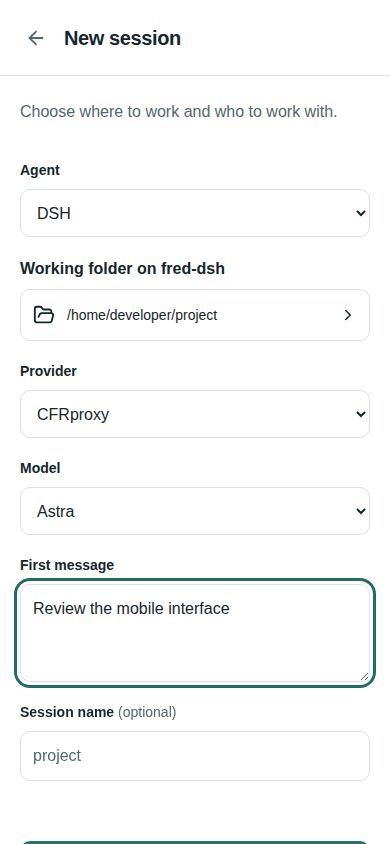
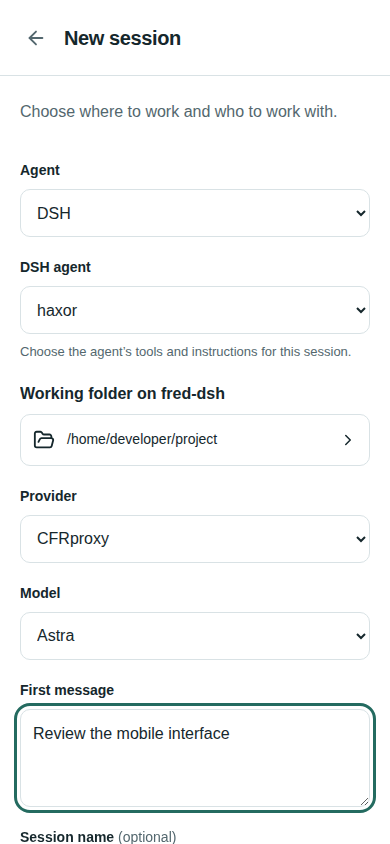
Select native DSH agent presets when launching sessions

diff --git a/apps/gateway/src/launch.ts b/apps/gateway/src/launch.ts
@@ -38,6 +38,7 @@ export const launchRequestSchema = z
     cwd: z.string().min(1).max(4096),
     name: z.string().trim().min(1).max(80),
     model: z.string().max(160).default(''),
+    agentPreset: z.string().min(1).max(160).optional(),
     prompt: z.string().trim().min(1).max(32000),
   })
   .strict();
@@ -105,12 +106,46 @@ export class Launcher {
         models: await this.models(p),
         allowCustomModel: p.allowCustomModel,
         defaultModel: p.defaultModel,
+        ...(p.harness === 'dsh' ? await this.presets(p) : {}),
         connected:
           this.dshHosts.get(p.hostId)?.connected ??
           this.clients.get(p.hostId)?.host.connected ??
           false,
       })),
     );
+  }
+  async presets(p: LaunchProfile) {
+    try {
+      const host = this.dshHosts.get(p.hostId);
+      if (!host?.connected) throw new Error('Disconnected');
+      const { presets } = z
+        .object({
+          presets: z.array(
+            z.object({
+              id: z.string(),
+              name: z.string().optional(),
+              description: z.string().optional(),
+              isDefault: z.boolean().optional(),
+              broken: z.string().optional(),
+            }),
+          ),
+        })
+        .parse(await host.native.call('agentPresets/list', {}));
+      return {
+        agentPresets: presets.map((p) => ({
+          id: p.id,
+          name: p.name || p.id,
+          description: p.description,
+          unavailable: !!p.broken,
+        })),
+        defaultAgentPreset: p.dshPreset ?? presets.find((p) => p.isDefault)?.id,
+      };
+    } catch {
+      return {
+        agentPresets: [],
+        presetError: 'DSH agent list is unavailable. Reconnect to DSH and try again.',
+      };
+    }
   }
   private modelCache = new Map<string, { at: number; models: { id: string; name: string }[] }>();
   async models(p: LaunchProfile) {
@@ -165,6 +200,15 @@ export class Launcher {
       return JSON.parse(existing.receipt as string);
     }
     const p = this.profile(input.profileId);
+    const selectedPreset = input.agentPreset ?? p.dshPreset;
+    if (input.agentPreset && p.harness !== 'dsh') throw new Error('Agent presets require DSH');
+    if (p.harness === 'dsh' && selectedPreset) {
+      const catalog = await this.presets(p);
+      if (
+        !catalog.agentPresets.some((preset) => preset.id === selectedPreset && !preset.unavailable)
+      )
+        throw new Error('Choose an available DSH agent');
+    }
     const client = this.clients.get(p.hostId);
     const dsh = this.dshHosts.get(p.hostId);
     if (!(p.harness === 'dsh' ? dsh?.connected : client?.host.connected))
@@ -201,6 +245,7 @@ export class Launcher {
       profileId: p.id,
       cwd: resolved,
       model: input.model,
+      agentPreset: selectedPreset,
     });
     try {
       const selectedModel = input.model || p.defaultModel;
@@ -211,7 +256,7 @@ export class Launcher {
           request: {
             sessionId: nativeId,
             cwd: resolved,
-            ...(p.dshPreset ? { agentPreset: p.dshPreset } : {}),
+            ...(selectedPreset ? { agentPreset: selectedPreset } : {}),
           },
         });
         receipt.nativeSessionId = nativeId;

diff --git a/packages/testing/src/launch.test.ts b/packages/testing/src/launch.test.ts
@@ -299,3 +299,89 @@ test('new Codex threads are named before their first Herdr CLI owner starts; rep
     store.close();
   }
 });
+
+test('DSH launch discovers presets, validates selection before mutation and preserves it on replay', async () => {
+  const store = new Store(':memory:');
+  const calls: { method: string; args: any }[] = [];
+  const host: any = {
+    connected: true,
+    native: {
+      call: async (method: string, args: any) => {
+        calls.push({ method, args });
+        if (method === 'agentPresets/list')
+          return {
+            presets: [
+              { id: 'standard', isDefault: true },
+              { id: 'haxor', name: 'Haxor' },
+              { id: 'ash' },
+              { id: 'minimal' },
+              { id: 'broken', broken: 'Missing tools' },
+            ],
+          };
+        return {};
+      },
+      models: async () => ({ groups: [] }),
+      prompt: async () => {},
+    },
+  };
+  const profile = launchProfileSchema.parse({
+    id: 'dsh',
+    hostId: 'fred-dsh',
+    label: 'DSH',
+    harness: 'dsh',
+    workspaceId: 'dsh',
+    roots: [tmpdir()],
+  });
+  const launcher = new Launcher(
+    store,
+    [profile],
+    new Map(),
+    new Map(),
+    new Map([['fred-dsh', host]]),
+  );
+  const input = {
+    requestId: randomUUID(),
+    profileId: 'dsh',
+    cwd: tmpdir(),
+    name: 'Chosen agent',
+    model: '',
+    prompt: 'Hello',
+    agentPreset: 'haxor',
+  };
+  try {
+    const [catalog] = await launcher.catalog();
+    assert.ok('defaultAgentPreset' in catalog && 'agentPresets' in catalog);
+    assert.equal(catalog.defaultAgentPreset, 'standard');
+    assert.equal(catalog.agentPresets?.find((p) => p.id === 'broken')?.unavailable, true);
+    for (const agentPreset of ['missing', 'broken']) {
+      await assert.rejects(
+        launcher.launch({ ...input, agentPreset }, 'device'),
+        /available DSH agent/,
+      );
+      assert.equal(launcher.receipt(input.requestId), undefined);
+    }
+    assert.equal(
+      calls.some((c) => c.method === 'session/create'),
+      false,
+    );
+    assert.equal((await launcher.launch(input, 'device')).status, 'started');
+    assert.equal(
+      calls.find((c) => c.method === 'session/create')?.args.request.agentPreset,
+      'haxor',
+    );
+    await launcher.launch(input, 'device');
+    assert.equal(calls.filter((c) => c.method === 'session/create').length, 1);
+    await assert.rejects(
+      launcher.launch({ ...input, agentPreset: 'ash' }, 'device'),
+      /different settings/,
+    );
+    const { agentPreset: _preset, ...defaultInput } = input;
+    await launcher.launch({ ...defaultInput, requestId: randomUUID() }, 'device');
+    assert.equal(
+      calls.filter((c) => c.method === 'session/create').at(-1)?.args.request.agentPreset,
+      undefined,
+    );
+  } finally {
+    store.close();
+  }
+});

diff --git a/apps/web/src/NewSession.tsx b/apps/web/src/NewSession.tsx
@@ -14,6 +14,9 @@ type Profile = {
   models: { id: string; name: string }[];
   allowCustomModel: boolean;
   defaultModel?: string;
+  agentPresets?: { id: string; name: string; description?: string; unavailable: boolean }[];
+  defaultAgentPreset?: string;
+  presetError?: string;
 };
 type Folders = {
   path: string;
@@ -35,6 +38,7 @@ type Draft = {
   name: string;
   model: string;
   prompt: string;
+  agentPreset?: string;
 };
 const labels: Record<string, string> = {
   claude: 'Claude Code',
@@ -157,6 +161,10 @@ export function NewSession({
       ...d,
       profileId: value.id,
       model: '',
+      agentPreset:
+        value.hostId === profile?.hostId && value.harness === profile?.harness
+          ? d.agentPreset
+          : undefined,
       cwd: value.hostId === profile?.hostId ? d.cwd : '',
     }));
     setCustom(false);
@@ -206,6 +214,38 @@ export function NewSession({
                     ))}
                   </select>
                 </label>
+                {profile.harness === 'dsh' && (
+                  <label>
+                    DSH agent
+                    <select
+                      aria-label="DSH agent"
+                      value={draft.agentPreset ?? ''}
+                      onChange={(e) =>
+                        setDraft((d) => ({ ...d, agentPreset: e.target.value || undefined }))
+                      }
+                      disabled={!!profile.presetError}
+                    >
+                      <option value="">
+                        {profile.defaultAgentPreset
+                          ? `Default: ${profile.defaultAgentPreset}`
+                          : 'DSH default'}
+                      </option>
+                      {(profile.agentPresets ?? []).map((preset) => (
+                        <option key={preset.id} value={preset.id} disabled={preset.unavailable}>
+                          {preset.name}
+                          {preset.unavailable ? ' (unavailable)' : ''}
+                        </option>
+                      ))}
+                    </select>
+                    <small>
+                      {profile.presetError ||
+                        profile.agentPresets?.find(
+                          (p) => p.id === (draft.agentPreset ?? profile.defaultAgentPreset),
+                        )?.description ||
+                        'Choose the agent’s tools and instructions for this session.'}
+                    </small>
+                  </label>
+                )}
                 {[
                   ...new Set(
                     list.filter((p) => p.harness === profile.harness).map((p) => p.hostId),

diff --git a/tests/e2e/mobile.spec.ts b/tests/e2e/mobile.spec.ts
@@ -957,6 +957,14 @@ test('DSH is selectable without discovering a separate host and launches the cho
           },
           {
             id: 'dsh-cfrproxy',
+            defaultAgentPreset: 'standard',
+            agentPresets: [
+              { id: 'standard', name: 'standard', unavailable: false },
+              { id: 'haxor', name: 'haxor', unavailable: false },
+              { id: 'ash', name: 'ash', unavailable: false },
+              { id: 'minimal', name: 'minimal', unavailable: false },
+              { id: 'broken', name: 'broken', unavailable: true },
+            ],
             hostId: 'fred-dsh',
             harness: 'dsh',
             provider: 'CFRproxy',
@@ -991,6 +999,12 @@ test('DSH is selectable without discovering a separate host and launches the cho
   });
   await page.getByRole('button', { name: 'New session', exact: true }).click();
   await page.getByRole('combobox', { name: 'Agent', exact: true }).selectOption('dsh');
+  await page.getByLabel('DSH agent', { exact: true }).selectOption('haxor');
+  await expect(
+    page.getByRole('option', { name: 'broken (unavailable)', exact: true }),
+  ).toHaveJSProperty('disabled', true);
+  await page.reload();
+  await expect(page.getByLabel('DSH agent', { exact: true })).toHaveValue('haxor');
   await expect(page.getByRole('combobox', { name: 'Provider', exact: true })).toContainText(
     'CFRproxy',
   );
@@ -1006,6 +1020,7 @@ test('DSH is selectable without discovering a separate host and launches the cho
   await expect(page.getByText('Agent started. Connecting its conversation…')).toBeVisible();
   expect(launched).toMatchObject({
     profileId: 'dsh-cfrproxy',
+    agentPreset: 'haxor',
     cwd: '/home/developer/project',
     model: 'gpt-6-astra',
     prompt: 'Review the mobile interface',

diff --git a/packages/adapters/src/dsh.ts b/packages/adapters/src/dsh.ts
@@ -23,7 +23,8 @@ export class DshClient {
       throw new Error('Remote DSH endpoints require HTTPS');
   }
   async call(method: string, args: Record<string, unknown>) {
-    if (!/^session\/[a-zA-Z]+$/.test(method)) throw new Error('Invalid DSH method');
+    if (!/^session\/[a-zA-Z]+$/.test(method) && method !== 'agentPresets/list')
+      throw new Error('Invalid DSH method');
     const rpcId = randomUUID();
     const cookie = await this.credential();
     if (!cookie || /[\r\n]/.test(cookie)) throw new Error('DSH authentication is not configured');

diff --git a/docs/DSH.md b/docs/DSH.md
@@ -39,3 +39,5 @@ DSH native question/approval replies, interruption, attachments and reasoning co
 Protocol verified against Fred's installed MIT-licensed source: `packages/api/session-controller`, `packages/client/connection`, and compact assistant stream definitions in `packages/llm/llm`. No third-party implementation code was copied.
 
 New sessions are selected directly with **New session → Agent → DSH**. Relay automatically selects the configured DSH connection, then offers its permitted folders and exact provider models. Conversation preparation obtains the adapter directly from native host discovery, including the interval before the background scheduler adopts it; newly launched chats therefore load history and begin watching immediately.
+
+**DSH agent** selects the native agent preset (for example haxor, ash, or minimal) independently of provider/model. The roster and default come from DSH's `agentPresets/list` API; broken presets remain visible but disabled. Relay validates explicit selections against the current roster before recording or creating a launch, then sends the exact ID as `session/create.request.agentPreset`. The choice persists in the launch draft and participates in request idempotency. Leaving Default selected preserves the configured/native default. This controls new sessions only; existing running agents are not replaced.
